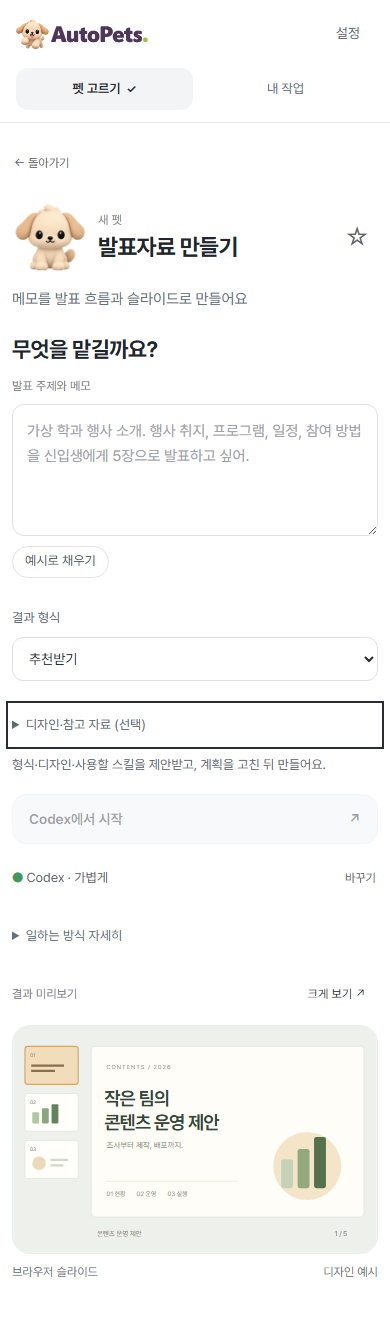
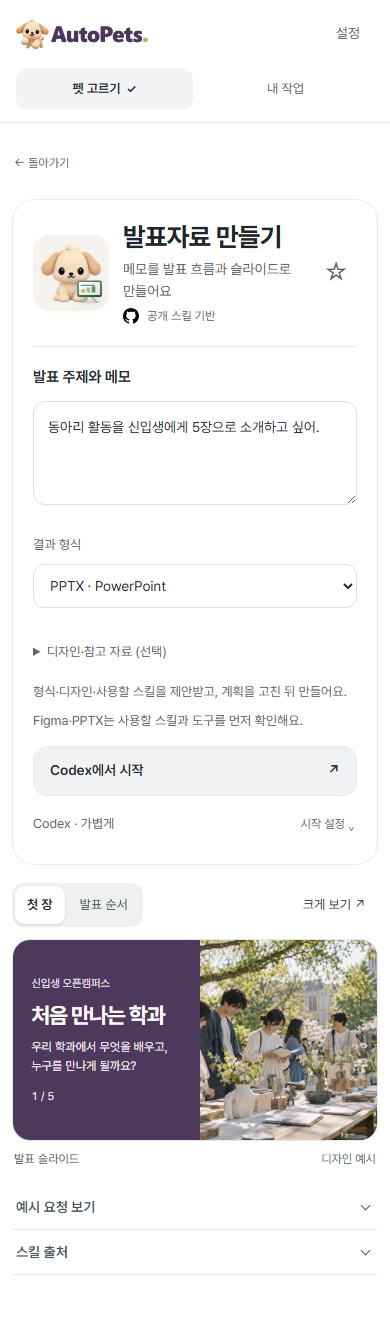
Use the presentation plan in MCP and capture the current screen (#104)

diff --git a/docs/testing/presentation-plan-20261127.md b/docs/testing/presentation-plan-20261127.md
@@ -1,0 +1,9 @@
+# 발표자료 선택과 계획 검수
+
+비교 기준은 #125와 #135를 반영한 main이다. Windows Chromium, 가상 채팅과 가상 발표 요청, 배율 100%에서 같은 화면을 열었다. 비교 창은 1280×900이고 작은 창은 390×844다.
+
+- [이전](../changes/104/before-plan.png) · [추천받기](../changes/104/after-plan.png) · [선택 항목 펼침](../changes/104/after-options.png) · [작은 창](../changes/104/after-narrow.png)
+- 합성 UI에서 추천받기, HTML, Figma, PPTX 선택이 요청에 각각 전달되고, 사진 없이 시작할 수 있는지 검사했다. 다른 펫에서 발표 설정이 보이지 않고 돌아오면 작성하던 값이 남는지 확인했다. 키보드로 선택 항목을 펼칠 수 있다.
+- 레시피와 Codex·MCP 읽기 검사에서 발표자료에만 계획 확인 규칙이 전달되는지 확인했다. 이전 1.0.0과 새 1.1.0의 스킬 읽기, 보관본과 패키지 무결성, 저장 펫 개정 검사를 수행했다.
+
+실제 Codex 대화에서 계획을 추천받아 편집하거나 Figma·PPTX 결과를 만들어 열어보는 일은 남아 있다. 사진을 첨부할 경우 사용자의 AI 채팅에서 첨부하며, 앱에서 사진을 저장하는 기능은 없다. 현행 설치본과 새 배포는 이 비교에 포함되지 않는다.
